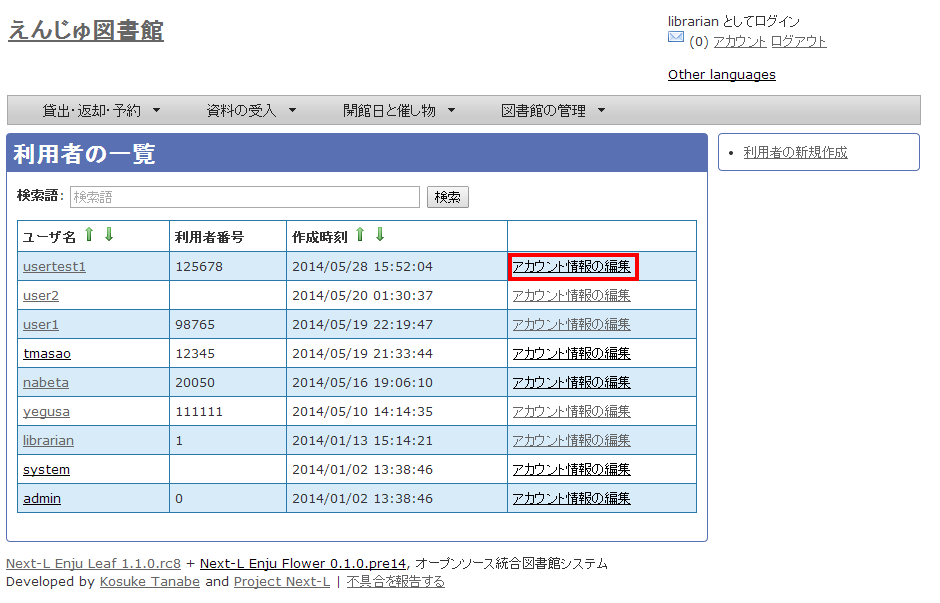
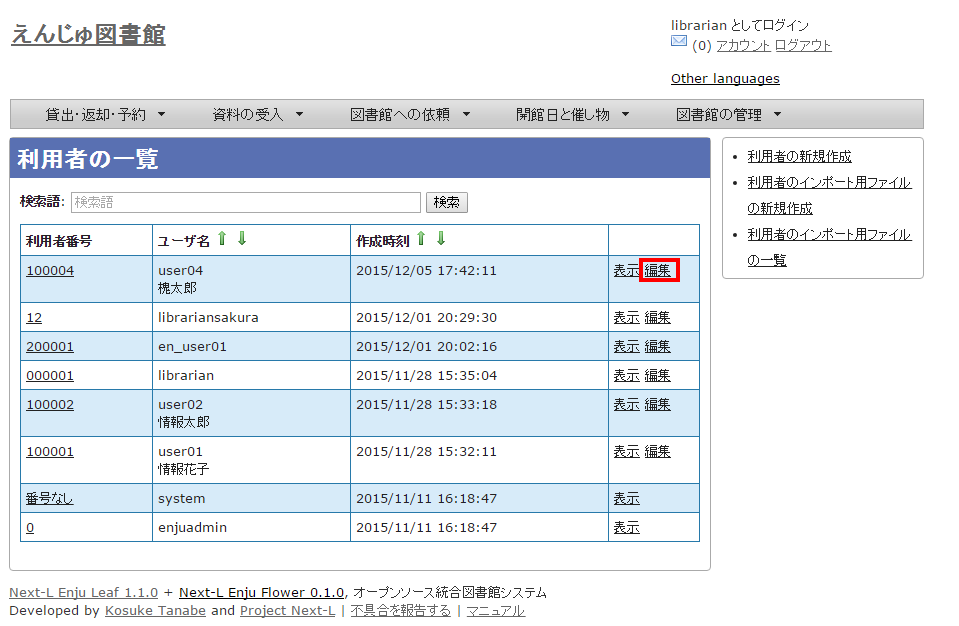
運用マニュアルの3-4をスクリーンショットもふくめて一通り修正

diff --git a/enju_operation_3.md b/enju_operation_3.md
@@ -371,11 +371,17 @@ Next-L Enju Leaf x.x.x.x 以降ではこの機能はありません
 
 登録した利用者情報は、不要になった際に削除できます。
 
+<div class="alert alert-info" markdown="1">
+
+【Memo】削除したい利用者情報が書かれたTSVファイルを用いて、複数の利用者情報をまとめて削除することもできます。TSVを用いた利用者情報の削除のやり方の詳細については、[「3-2 既存のデータから利用者情報をインポートする 」](#section3-2)を参照してください。
+
+</div>
+
 #### 1. ［図書館の管理］メニューから［利用者の管理］を選択します。  
 
 ![利用者の管理](assets/images/image_operation_user.png)
 
-#### 2. 削除したい利用者の［アカウント情報の編集］をクリックします。  
+#### 2. 削除したい利用者の［編集］をクリックします。  
 
 ![アカウント情報の編集](assets/images/image_operation_057.png)
 
@@ -386,8 +392,6 @@ Next-L Enju Leaf x.x.x.x 以降ではこの機能はありません
 #### 4. メッセージが表示されたら［OK］をクリックします。  
 
 ![OK](assets/images/image_operation_061.png)
-
-<div class="alert alert-info memo">【Memo】[図書館の管理] → [インポート] → [利用者]の画面の［［編集］モードで［削除］を選択すると、TSVファイルでプロフィール情報をまとめて変更できます。この場合、TSVファイルでは削除したい利用者の利用者番号（user_number）のみを埋めておくようにします。 </div>
 
 {::comment}     <div class="alert alert-info memo">【Memo】利用者情報を削除しても、人物・団体としての情報は削除されません>。いったん削除した利用者が新たに利用登録を行う場合は、利用者番号を再度割り振ります。利用者番号を再度割り振るには、再>登録を行いたい人物のプロフィール情報を表示し、右メニューの［利用者として登録する］をクリックします。 </div>{:/comment}
 
